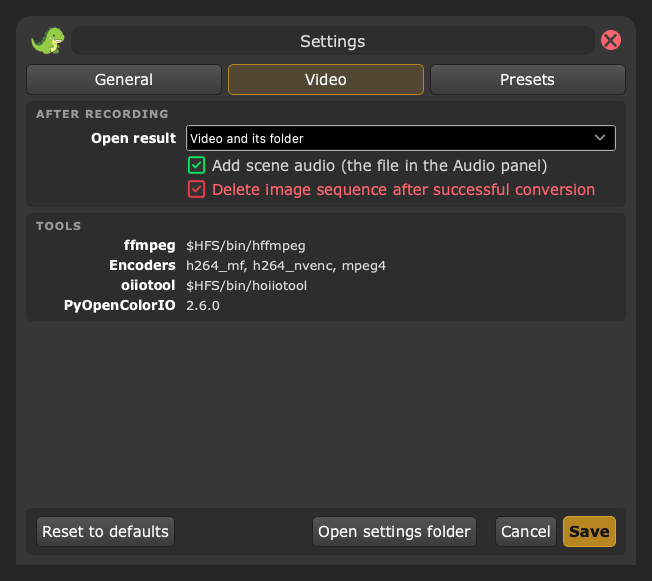
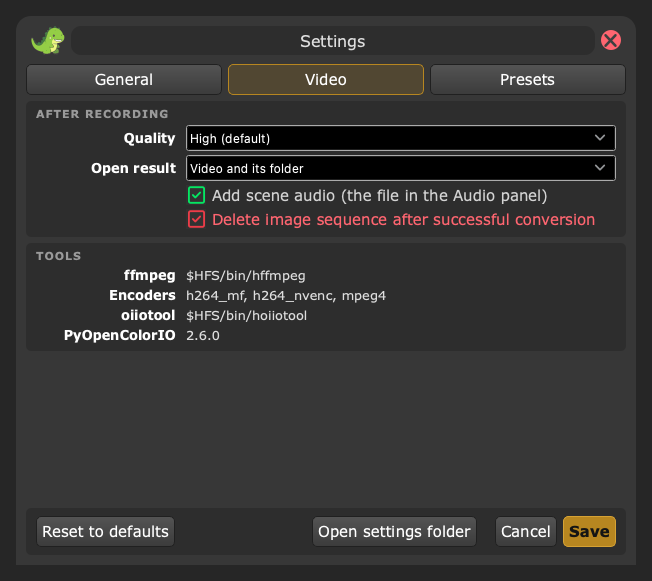
Settings -> Video -> Quality: draft / standard / high (default) / max, the bitrate in the tooltip; README table

Changed region(s): [[0.092, 0.2169, 0.9509, 0.5886], [0.0613, 0.4337, 0.1227, 0.4647], [0.0613, 0.3718, 0.1227, 0.4028]]

diff --git a/gui/settings_dialog.py b/gui/settings_dialog.py
@@ -27,6 +27,12 @@ OPEN_AFTER = (
     ("video", "Video", "The converted video in the default player (the folder when there's no video)"),
     ("folder", "Sequence folder", "The folder with the image sequence (drag it into Nuke)"),
 )
+VIDEO_QUALITY = (
+    ("draft", "Draft (small file)", "Quick look, smallest file: fine details and noise get soft"),
+    ("standard", "Standard", "Clean preview; thin lines and small details may get a bit soft"),
+    ("high", "High (default)", "Keeps small details; the file is about 2× Standard"),
+    ("max", "Max (big file)", "Nearly lossless look; the file is about 4× Standard"),
+)
 LDR_COLORSPACES = (
     ("acescct", "ACEScct", "matte_paint of the ACES 1.3 cg/studio configs since cg-config v2.1"),
     ("srgb_texture", "sRGB - Texture", "matte_paint of cg-config v1 and Nuke's aces_1.2: brightest parts greyish"),
@@ -326,6 +332,16 @@ class SettingsDialog(RoundedWindow, QDialog):
             self.open_after.addItem(label, key)
             self.open_after.setItemData(self.open_after.count() - 1, tip, Qt.ToolTipRole)
         self._comboTooltip(self.open_after, "What opens when the flipbook is done (with 'Open result' on)")
+        self.video_quality = QComboBox()
+        for key, label, tip in VIDEO_QUALITY:
+            level = ffmpeg.VIDEO_QUALITY[key]
+            self.video_quality.addItem(label, key)
+            self.video_quality.setItemData(
+                self.video_quality.count() - 1,
+                f"{tip}\n~{ffmpeg.videoBitrate('1920x1080', '24', level['bpp'])}bit/s at 1920×1080, 24 fps "
+                f"(GPU/OS H.264; libx264 CRF {level['crf']}, mpeg4 q {level['qscale']})", Qt.ToolTipRole)
+        self._comboTooltip(self.video_quality, "How much detail the video keeps: higher keeps thin lines and\n"
+                                               "small details sharp, the file gets bigger")
         # One row per tool (a multi-line label in a form layout gets a wrong height and rows overlap)
         self.tool_values = {}
         for key in TOOLS:
@@ -337,7 +353,8 @@ class SettingsDialog(RoundedWindow, QDialog):
                       "ffmpeg_cmd; oiiotool: advanced.oiiotool_path in the user settings file")
 
         return self._page(
-            self._section([("Open result", self.open_after), ("", self.video_audio), ("", self.delete_input)],
+            self._section([("Quality", self.video_quality), ("Open result", self.open_after),
+                           ("", self.video_audio), ("", self.delete_input)],
                           title="After recording"),
             self._section([(key, value) for key, value in self.tool_values.items()], hint=tools_hint,
                           title="Tools"))
@@ -521,6 +538,8 @@ class SettingsDialog(RoundedWindow, QDialog):
 
         self.delete_input.setChecked(bool(advanced.get("conversion_delete_input_sequence")))
         self.open_after.setCurrentIndex(max(self.open_after.findData(advanced.get("open_after", "video_folder")), 0))
+        self.video_quality.setCurrentIndex(max(self.video_quality.findData(
+            advanced.get("video_quality", ffmpeg.DEFAULT_QUALITY)), 0))
 
         self.resolutions.setPlainText("\n".join(settings.get("custom_resolution", [])))
         self.frame_ranges.setPlainText("\n".join(
@@ -556,6 +575,7 @@ class SettingsDialog(RoundedWindow, QDialog):
         advanced["true_resolution"] = self.true_resolution.currentData()
         advanced["conversion_delete_input_sequence"] = self.delete_input.isChecked()
         advanced["open_after"] = self.open_after.currentData()
+        advanced["video_quality"] = self.video_quality.currentData()
 
         resolutions = []
         for line in self._lines(self.resolutions):
@@ -591,7 +611,7 @@ class SettingsDialog(RoundedWindow, QDialog):
                 ("advanced", "true_resolution", self.true_resolution),
                 ("advanced", "exr_acescg", self.exr_acescg), ("advanced", "ldr_matte_paint", self.ldr_matte_paint),
                 ("advanced", "ldr_colorspace", self.ldr_colorspace), ("advanced", "open_after", self.open_after),
-                ("advanced", "video_audio", self.video_audio),
+                ("advanced", "video_audio", self.video_audio), ("advanced", "video_quality", self.video_quality),
                 ("advanced", "conversion_delete_input_sequence", self.delete_input),
                 ("custom_resolution", None, self.resolutions), ("custom_framerange", None, self.frame_ranges)]
 

diff --git a/tests/test_settings_dialog.py b/tests/test_settings_dialog.py
@@ -208,3 +208,13 @@ def test_long_choices_are_short_with_the_full_text_in_the_tooltip(dialog):
     combo = dialog.true_resolution
     assert all(len(combo.itemText(i)) <= 34 for i in range(combo.count()))
     assert "bigger than the maximized viewport" in combo.toolTip()
+
+
+def test_video_quality_is_saved(dialog, tmp_path):
+    assert dialog.video_quality.currentData() == "high", "high by default: small details stay sharp"
+    assert "bit/s" in dialog.video_quality.toolTip()
+    dialog.video_quality.setCurrentIndex(dialog.video_quality.findData("max"))
+    assert ("advanced", "video_quality") in dialog.changedKeys()
+    dialog.save()
+    stored = json.loads((tmp_path / "user_settings.json").read_text())
+    assert stored == {"advanced": {"video_quality": "max"}}

diff --git a/README.md b/README.md
@@ -80,7 +80,7 @@ Click the gear button in the window title. Tabs:
 | tab | what |
 |---|---|
 | General | **Output**: flipbooks folder (Browse…: choose it, `$JOB`/`$HIP` are put back into the path; arrow button: open it), file name template (click a variable chip to insert it; the line below shows what it turns into: yellow when the folder doesn't exist yet, red for an unknown variable or placeholder), EXR compression, incomplete flipbook cleanup. **Viewer**: where to record. **Color management**: ACEScg, PNG/JPG to matte_paint |
-| Video | **After recording**: what to open, scene audio, sequence cleanup. **Tools**: which ffmpeg, encoders, oiiotool, PyOpenColorIO are found |
+| Video | **After recording**: video quality, what to open, scene audio, sequence cleanup. **Tools**: which ffmpeg, encoders, oiiotool, PyOpenColorIO are found |
 | Presets | resolution and frame range presets for the dropdown menus |
 
 Settings that differ from the defaults get a dot before the label (bold text for checkboxes). Destructive options
@@ -197,6 +197,19 @@ without GPL parts and has **no libx264**, so `auto` asks ffmpeg which encoders i
 `libx264` → `h264_videotoolbox` (macOS) → `h264_mf` (Windows) → `h264_nvenc` / `h264_amf` / `h264_qsv` → `mpeg4`,
 moving to the next one if an encoder fails. The `{codec}` line in the ffmpeg command expands to the encoder arguments, `{audio_input}` / `{audio}` to the scene
 sound, `{metadata}` to the passport.
+
+### Video quality
+Settings → Video → Quality (`advanced.video_quality`). Thin lines, noise and small details need more bits, the file
+grows with them:
+
+| Quality | GPU/OS H.264 bitrate (1920×1080, 24 fps) | libx264 CRF | mpeg4 q |
+|---|---|---|---|
+| Draft | ~6 Mbit/s | 23 | 5 |
+| Standard | ~12 Mbit/s | 18 | 3 |
+| **High** (default) | ~25 Mbit/s | 14 | 2 |
+| Max | ~50 Mbit/s | 8 | 1 |
+
+The bitrate scales with the resolution and fps (bits per pixel: 0.12 / 0.25 / 0.5 / 1.0).
 
 ### Tools lookup
 - ffmpeg: `advanced.ffmpeg_path` → `$PDG_FFMPEG` → `$HFS/bin/hffmpeg` (ships with Houdini) → system PATH
